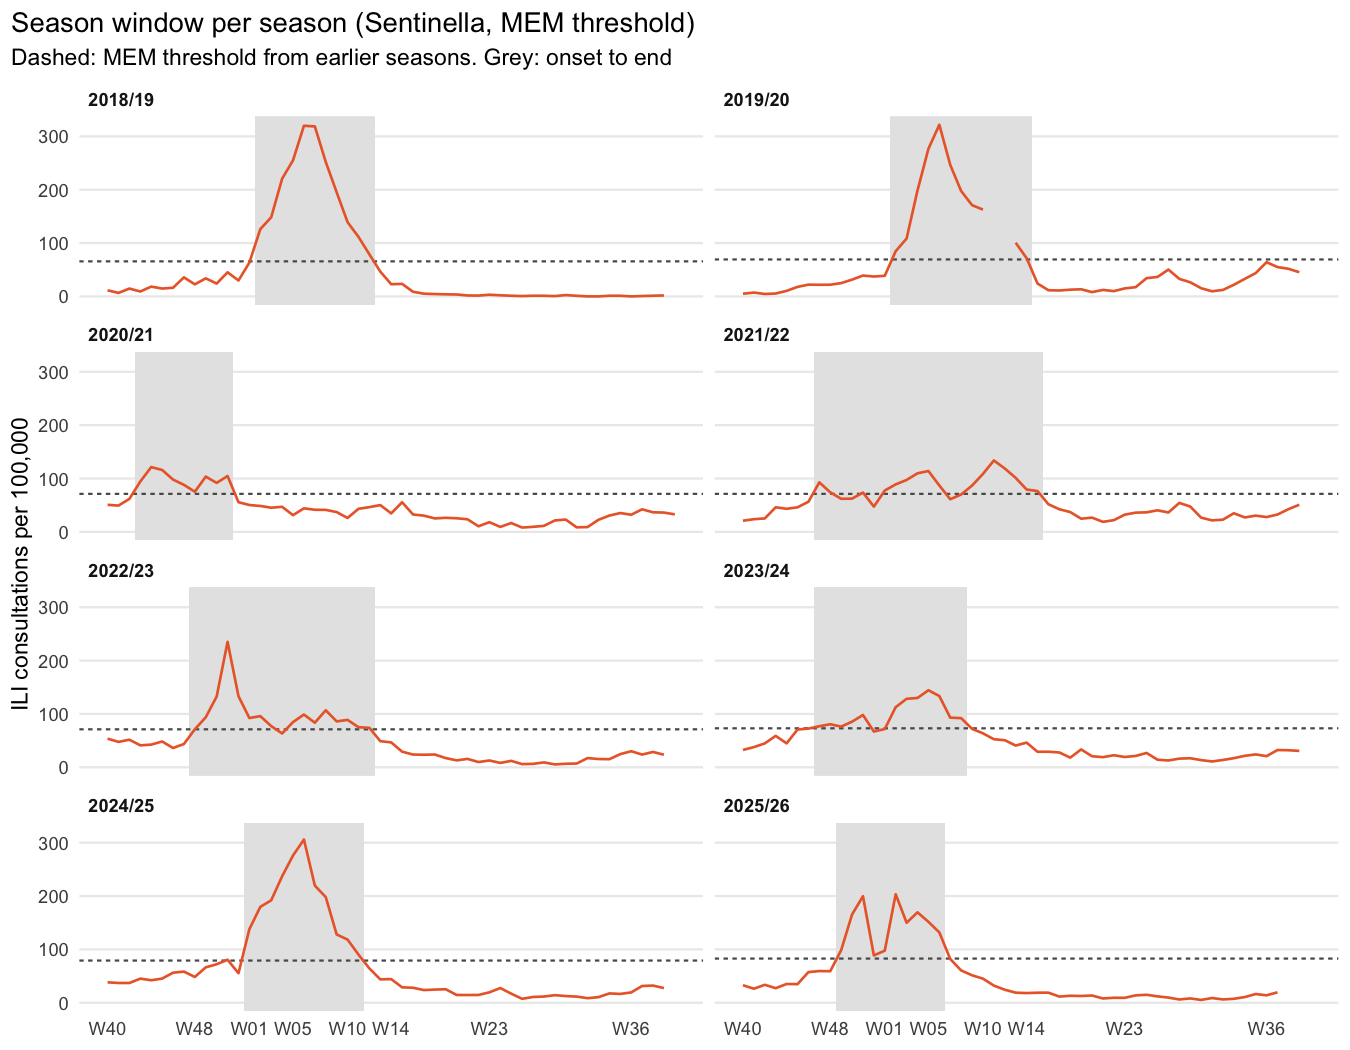
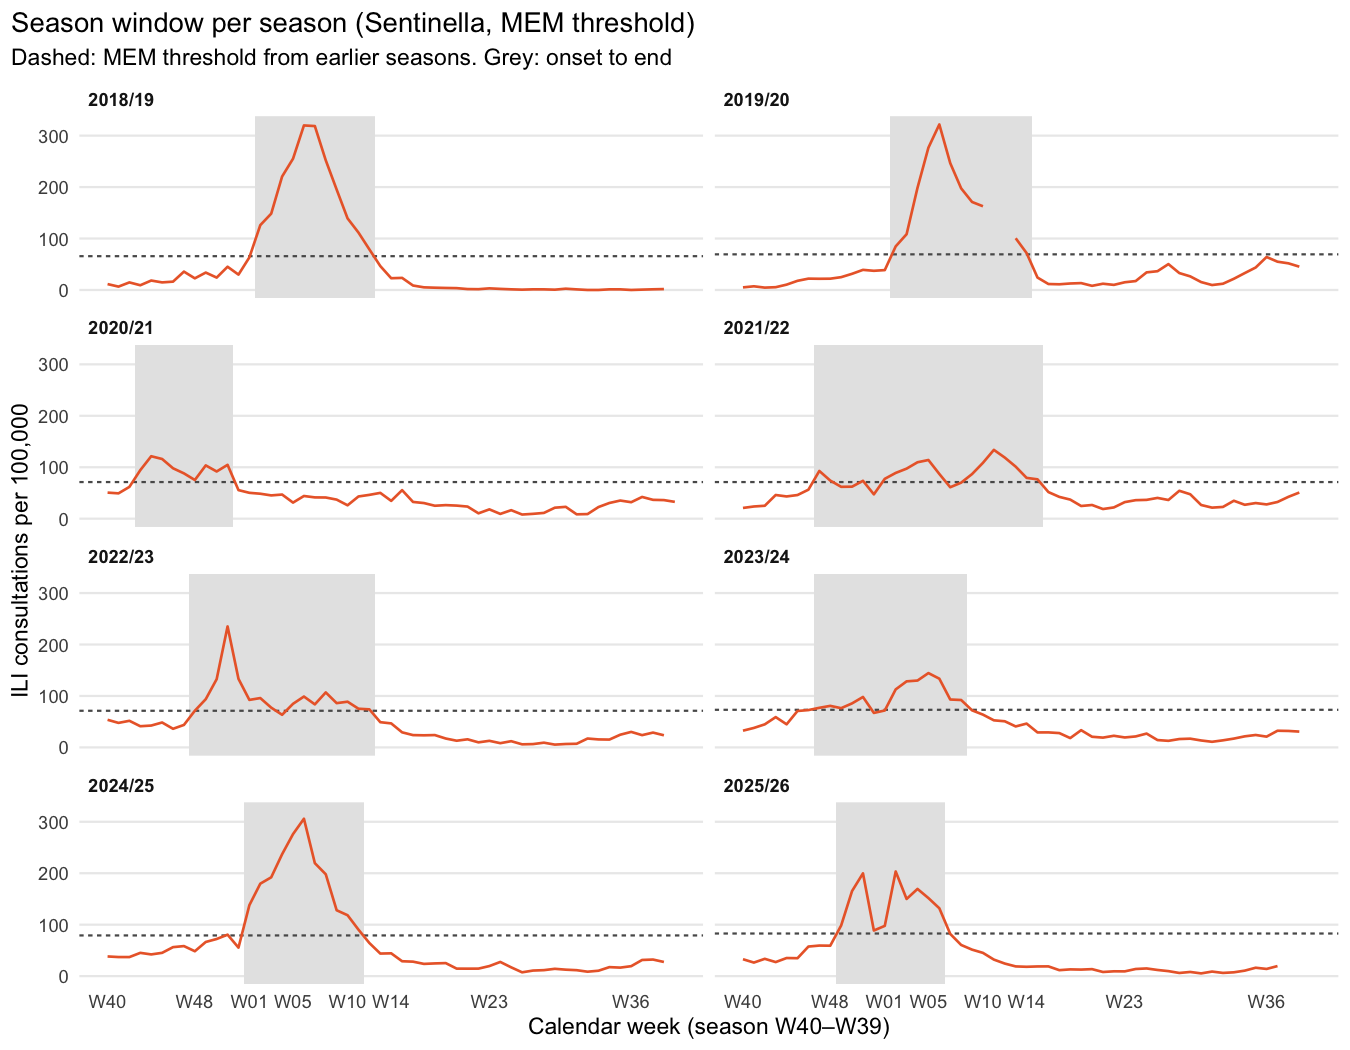
Add axis titles to EDA figures

diff --git a/reports/02_eda.md b/reports/02_eda.md
@@ -1,7 +1,7 @@
 WP 4.2 – Exploratory Analysis
 ================
 S. Ryf (responsible), L. Zovkic (feedback)
-15 October 2026
+27 October 2026
 
 - [1 Data](#1-data)
 - [2 Seasonal patterns](#2-seasonal-patterns)
@@ -56,16 +56,16 @@ extent.
 
 ![](figures/02_fig-typical-1.png)<!-- -->
 
-| System                                   | Period          | Seasons | Weeks | Mean | Median | 90th pct. |   Max | % weeks = 0 |
-|:-----------------------------------------|:----------------|--------:|------:|-----:|-------:|----------:|------:|------------:|
-| Mandatory reporting (cases per 100,000)  | pre2020_partial |       1 |    39 | 0.90 |   0.01 |      3.45 |  4.82 |        35.9 |
-| Mandatory reporting (cases per 100,000)  | pre2020         |       7 |   365 | 1.99 |   0.07 |      7.94 | 24.39 |        15.9 |
-| Mandatory reporting (cases per 100,000)  | covid           |       2 |   105 | 1.35 |   0.03 |      2.94 | 18.23 |        22.9 |
-| Mandatory reporting (cases per 100,000)  | post2020        |       4 |   206 | 5.23 |   0.48 |     19.10 | 42.81 |         0.0 |
-| Sentinella (ILI per 1,000 consultations) | pre2020_partial |       1 |    39 | 9.91 |   0.70 |     35.76 | 58.20 |         0.0 |
-| Sentinella (ILI per 1,000 consultations) | pre2020         |       7 |   363 | 7.48 |   2.00 |     27.16 | 59.10 |         3.0 |
-| Sentinella (ILI per 1,000 consultations) | covid           |       2 |   105 | 8.39 |   6.80 |     15.06 | 20.70 |         0.0 |
-| Sentinella (ILI per 1,000 consultations) | post2020        |       4 |   206 | 9.39 |   5.70 |     21.95 | 48.60 |         0.0 |
+| System | Period | Seasons | Weeks | Mean | Median | 90th pct. | Max | % weeks = 0 |
+|:---|:---|---:|---:|---:|---:|---:|---:|---:|
+| Mandatory reporting (cases per 100,000) | pre2020_partial | 1 | 39 | 0.90 | 0.01 | 3.45 | 4.82 | 35.9 |
+| Mandatory reporting (cases per 100,000) | pre2020 | 7 | 365 | 1.99 | 0.07 | 7.94 | 24.39 | 15.9 |
+| Mandatory reporting (cases per 100,000) | covid | 2 | 105 | 1.35 | 0.03 | 2.94 | 18.23 | 22.9 |
+| Mandatory reporting (cases per 100,000) | post2020 | 4 | 206 | 5.23 | 0.48 | 19.10 | 42.81 | 0.0 |
+| Sentinella (ILI per 1,000 consultations) | pre2020_partial | 1 | 39 | 9.91 | 0.70 | 35.76 | 58.20 | 0.0 |
+| Sentinella (ILI per 1,000 consultations) | pre2020 | 7 | 363 | 7.48 | 2.00 | 27.16 | 59.10 | 3.0 |
+| Sentinella (ILI per 1,000 consultations) | covid | 2 | 105 | 8.39 | 6.80 | 15.06 | 20.70 | 0.0 |
+| Sentinella (ILI per 1,000 consultations) | post2020 | 4 | 206 | 9.39 | 5.70 | 21.95 | 48.60 | 0.0 |
 
 Weekly values per period
 
@@ -97,32 +97,32 @@ check the peak week is therefore also determined on ILI consultations
 per 100,000 inhabitants, which is not affected by the drop in total
 consultations.
 
-| Season  | Period          | Peak week (oblig) | Peak (cases/100k) | Peak week (Sentinella, per 1,000 cons.) | Peak (ILI/1,000) | Lag (weeks) | Peak week (Sentinella, per 100,000) | Lag (weeks, per 100,000) | Note                |
-|:--------|:----------------|:------------------|------------------:|:----------------------------------------|-----------------:|------------:|:------------------------------------|-------------------------:|:--------------------|
-| 2012/13 | pre2020_partial | 2013-W06          |               4.8 | 2013-W06                                |             58.2 |           0 | 2013-W06                            |                        0 | incomplete season   |
-| 2013/14 | pre2020         | 2014-W08          |               2.0 | 2014-W07                                |             18.0 |           1 | 2014-W07                            |                        1 |                     |
-| 2014/15 | pre2020         | 2015-W07          |              10.6 | 2015-W06                                |             52.1 |           1 | 2015-W06                            |                        1 |                     |
-| 2015/16 | pre2020         | 2016-W11          |               4.4 | 2016-W06                                |             39.0 |           5 | 2016-W06                            |                        5 |                     |
-| 2016/17 | pre2020         | 2017-W01          |              17.1 | 2017-W01                                |             57.0 |           0 | 2017-W02                            |                       -1 |                     |
-| 2017/18 | pre2020         | 2018-W01          |              16.3 | 2018-W01                                |             59.1 |           0 | 2018-W02                            |                       -1 |                     |
-| 2018/19 | pre2020         | 2019-W07          |              24.4 | 2019-W07                                |             40.8 |           0 | 2019-W06                            |                        1 |                     |
-| 2019/20 | pre2020         | 2020-W05          |              20.4 | 2020-W06                                |             43.6 |          -1 | 2020-W06                            |                       -1 |                     |
-| 2020/21 | covid           | 2020-W51          |               0.6 | 2020-W44                                |             17.3 |           7 | 2020-W44                            |                        7 | no influenza season |
-| 2021/22 | covid           | 2022-W12          |              18.2 | 2022-W11                                |             20.7 |           1 | 2022-W11                            |                        1 |                     |
-| 2022/23 | post2020        | 2022-W51          |              42.8 | 2022-W52                                |             46.1 |          -1 | 2022-W51                            |                        0 |                     |
-| 2023/24 | post2020        | 2024-W04          |              26.4 | 2023-W52                                |             23.7 |           4 | 2024-W05                            |                       -1 | test season         |
-| 2024/25 | post2020        | 2025-W05          |              34.0 | 2025-W06                                |             48.6 |          -1 | 2025-W06                            |                       -1 | test season         |
-| 2025/26 | post2020        | 2026-W01          |              36.5 | 2026-W01                                |             35.7 |           0 | 2026-W02                            |                       -1 | incomplete season   |
+| Season | Period | Peak week (oblig) | Peak (cases/100k) | Peak week (Sentinella, per 1,000 cons.) | Peak (ILI/1,000) | Lag (weeks) | Peak week (Sentinella, per 100,000) | Lag (weeks, per 100,000) | Note |
+|:---|:---|:---|---:|:---|---:|---:|:---|---:|:---|
+| 2012/13 | pre2020_partial | 2013-W06 | 4.8 | 2013-W06 | 58.2 | 0 | 2013-W06 | 0 | incomplete season |
+| 2013/14 | pre2020 | 2014-W08 | 2.0 | 2014-W07 | 18.0 | 1 | 2014-W07 | 1 |  |
+| 2014/15 | pre2020 | 2015-W07 | 10.6 | 2015-W06 | 52.1 | 1 | 2015-W06 | 1 |  |
+| 2015/16 | pre2020 | 2016-W11 | 4.4 | 2016-W06 | 39.0 | 5 | 2016-W06 | 5 |  |
+| 2016/17 | pre2020 | 2017-W01 | 17.1 | 2017-W01 | 57.0 | 0 | 2017-W02 | -1 |  |
+| 2017/18 | pre2020 | 2018-W01 | 16.3 | 2018-W01 | 59.1 | 0 | 2018-W02 | -1 |  |
+| 2018/19 | pre2020 | 2019-W07 | 24.4 | 2019-W07 | 40.8 | 0 | 2019-W06 | 1 |  |
+| 2019/20 | pre2020 | 2020-W05 | 20.4 | 2020-W06 | 43.6 | -1 | 2020-W06 | -1 |  |
+| 2020/21 | covid | 2020-W51 | 0.6 | 2020-W44 | 17.3 | 7 | 2020-W44 | 7 | no influenza season |
+| 2021/22 | covid | 2022-W12 | 18.2 | 2022-W11 | 20.7 | 1 | 2022-W11 | 1 |  |
+| 2022/23 | post2020 | 2022-W51 | 42.8 | 2022-W52 | 46.1 | -1 | 2022-W51 | 0 |  |
+| 2023/24 | post2020 | 2024-W04 | 26.4 | 2023-W52 | 23.7 | 4 | 2024-W05 | -1 | test season |
+| 2024/25 | post2020 | 2025-W05 | 34.0 | 2025-W06 | 48.6 | -1 | 2025-W06 | -1 | test season |
+| 2025/26 | post2020 | 2026-W01 | 36.5 | 2026-W01 | 35.7 | 0 | 2026-W02 | -1 | incomplete season |
 
 ![](figures/02_fig-peak-week-1.png)<!-- -->
 
 ![](figures/02_fig-peak-intensity-1.png)<!-- -->
 
-| Period   | Seasons | Mean peak week oblig (SD in weeks, range) | Mean peak week Sentinella (SD) | Median peak oblig | Median peak Sentinella | Mean lag in weeks (range) | Mean lag per 100,000 (range) |
-|:---------|--------:|:------------------------------------------|:-------------------------------|------------------:|-----------------------:|:--------------------------|:-----------------------------|
-| pre2020  |       7 | W06 (SD 3.9, W01 to W12)                  | W05 (SD 2.8)                   |              16.3 |                   43.6 | 0.9 (-1 to 5)             | 0.7 (-1 to 5)                |
-| covid    |       1 | W12 (SD NA, W12 to W12)                   | W11 (SD NA)                    |              18.2 |                   20.7 | 1.0 (1 to 1)              | 1.0 (1 to 1)                 |
-| post2020 |       4 | W02 (SD 2.8, W51 to W05)                  | W02 (SD 2.9)                   |              35.2 |                   40.9 | 0.5 (-1 to 4)             | -0.8 (-1 to 0)               |
+| Period | Seasons | Mean peak week oblig (SD in weeks, range) | Mean peak week Sentinella (SD) | Median peak oblig | Median peak Sentinella | Mean lag in weeks (range) | Mean lag per 100,000 (range) |
+|:---|---:|:---|:---|---:|---:|:---|:---|
+| pre2020 | 7 | W06 (SD 3.9, W01 to W12) | W05 (SD 2.8) | 16.3 | 43.6 | 0.9 (-1 to 5) | 0.7 (-1 to 5) |
+| covid | 1 | W12 (SD NA, W12 to W12) | W11 (SD NA) | 18.2 | 20.7 | 1.0 (1 to 1) | 1.0 (1 to 1) |
+| post2020 | 4 | W02 (SD 2.8, W51 to W05) | W02 (SD 2.9) | 35.2 | 40.9 | 0.5 (-1 to 4) | -0.8 (-1 to 0) |
 
 Peak timing and intensity by period (seasons in summary statistics only)
 
@@ -173,29 +173,29 @@ onset rule reproduces the onset week reported by FOPH/BAG in 4 of 5
 seasons; the prospective MEM thresholds reproduce it in both seasons
 where they are available (2018/19, 2019/20).
 
-| Season  | FOPH/BAG threshold | MEM (prospective) | MEM (all pre-2020) | Onset reported by FOPH/BAG | Onset with FOPH/BAG threshold | Onset with MEM (prospective) | Onset with MEM (all pre-2020) |
-|:--------|-------------------:|------------------:|-------------------:|:---------------------------|:------------------------------|:-----------------------------|:------------------------------|
-| 2013/14 |                 74 |                NA |               71.2 | 2014-W04                   | 2014-W05                      | NA                           | 2014-W04                      |
-| 2014/15 |                 70 |                NA |               71.2 | NA                         | 2015-W02                      | NA                           | 2015-W02                      |
-| 2015/16 |                 NA |                NA |               71.2 | NA                         | NA                            | NA                           | 2016-W02                      |
-| 2016/17 |                 64 |                NA |               71.2 | 2016-W50                   | 2016-W50                      | NA                           | 2016-W51                      |
-| 2017/18 |                 68 |                NA |               71.2 | 2017-W51                   | 2017-W51                      | NA                           | 2017-W51                      |
-| 2018/19 |                 68 |              65.7 |               71.2 | 2019-W02                   | 2019-W02                      | 2019-W02                     | 2019-W02                      |
-| 2019/20 |                 69 |              69.2 |               71.2 | 2020-W02                   | 2020-W02                      | 2020-W02                     | 2020-W02                      |
+| Season | FOPH/BAG threshold | MEM (prospective) | MEM (all pre-2020) | Onset reported by FOPH/BAG | Onset with FOPH/BAG threshold | Onset with MEM (prospective) | Onset with MEM (all pre-2020) |
+|:---|---:|---:|---:|:---|:---|:---|:---|
+| 2013/14 | 74 | NA | 71.2 | 2014-W04 | 2014-W05 | NA | 2014-W04 |
+| 2014/15 | 70 | NA | 71.2 | NA | 2015-W02 | NA | 2015-W02 |
+| 2015/16 | NA | NA | 71.2 | NA | NA | NA | 2016-W02 |
+| 2016/17 | 64 | NA | 71.2 | 2016-W50 | 2016-W50 | NA | 2016-W51 |
+| 2017/18 | 68 | NA | 71.2 | 2017-W51 | 2017-W51 | NA | 2017-W51 |
+| 2018/19 | 68 | 65.7 | 71.2 | 2019-W02 | 2019-W02 | 2019-W02 | 2019-W02 |
+| 2019/20 | 69 | 69.2 | 71.2 | 2020-W02 | 2020-W02 | 2020-W02 | 2020-W02 |
 
 Thresholds per 100,000 inhabitants and resulting onset weeks, pre-2020
 seasons
 
-| Season  | MEM threshold | Onset    | End      | Duration (weeks) | Peak Sentinella | Peak oblig | Oblig cases in window |
-|:--------|--------------:|:---------|:---------|-----------------:|:----------------|:-----------|:----------------------|
-| 2018/19 |          65.7 | 2019-W02 | 2019-W12 |               11 | 2019-W07        | 2019-W07   | 89%                   |
-| 2019/20 |          69.2 | 2020-W02 | 2020-W14 |               13 | 2020-W06        | 2020-W05   | 93%                   |
-| 2020/21 |          71.2 | 2020-W43 | 2020-W51 |                9 | 2020-W44        | 2020-W51   | 58%                   |
-| 2021/22 |          71.2 | 2021-W47 | 2022-W15 |               21 | 2022-W11        | 2022-W12   | 89%                   |
-| 2022/23 |          71.2 | 2022-W48 | 2023-W12 |               17 | 2022-W52        | 2022-W51   | 92%                   |
-| 2023/24 |          73.1 | 2023-W47 | 2024-W08 |               14 | 2023-W52        | 2024-W04   | 86%                   |
-| 2024/25 |          79.1 | 2025-W01 | 2025-W11 |               11 | 2025-W06        | 2025-W05   | 80%                   |
-| 2025/26 |          82.8 | 2025-W49 | 2026-W06 |               10 | 2026-W01        | 2026-W01   | 86%                   |
+| Season | MEM threshold | Onset | End | Duration (weeks) | Peak Sentinella | Peak oblig | Oblig cases in window |
+|:---|---:|:---|:---|---:|:---|:---|:---|
+| 2018/19 | 65.7 | 2019-W02 | 2019-W12 | 11 | 2019-W07 | 2019-W07 | 89% |
+| 2019/20 | 69.2 | 2020-W02 | 2020-W14 | 13 | 2020-W06 | 2020-W05 | 93% |
+| 2020/21 | 71.2 | 2020-W43 | 2020-W51 | 9 | 2020-W44 | 2020-W51 | 58% |
+| 2021/22 | 71.2 | 2021-W47 | 2022-W15 | 21 | 2022-W11 | 2022-W12 | 89% |
+| 2022/23 | 71.2 | 2022-W48 | 2023-W12 | 17 | 2022-W52 | 2022-W51 | 92% |
+| 2023/24 | 73.1 | 2023-W47 | 2024-W08 | 14 | 2023-W52 | 2024-W04 | 86% |
+| 2024/25 | 79.1 | 2025-W01 | 2025-W11 | 11 | 2025-W06 | 2025-W05 | 80% |
+| 2025/26 | 82.8 | 2025-W49 | 2026-W06 | 10 | 2026-W01 | 2026-W01 | 86% |
 
 Season boundaries from Sentinella (MEM), applied to mandatory reporting
 
@@ -221,29 +221,29 @@ pre-2020 seasons (71.2 per 100,000). These descriptive boundaries are
 used only for RQ1; the in-season weeks for WP 4.5 remain the prospective
 ones above.
 
-| Season  | Threshold                                | Threshold (per 100,000) | Onset    | End      | Duration (weeks) |
-|:--------|:-----------------------------------------|------------------------:|:---------|:---------|-----------------:|
-| 2013/14 | MEM retrospective (all pre-2020 seasons) |                    71.2 | 2014-W04 | 2014-W10 |                7 |
-| 2014/15 | MEM retrospective (all pre-2020 seasons) |                    71.2 | 2015-W02 | 2015-W12 |               11 |
-| 2015/16 | MEM retrospective (all pre-2020 seasons) |                    71.2 | 2016-W02 | 2016-W13 |               12 |
-| 2016/17 | MEM retrospective (all pre-2020 seasons) |                    71.2 | 2016-W51 | 2017-W08 |               10 |
-| 2017/18 | MEM retrospective (all pre-2020 seasons) |                    71.2 | 2017-W51 | 2018-W13 |               15 |
-| 2018/19 | MEM prospective (earlier seasons only)   |                    65.7 | 2019-W02 | 2019-W12 |               11 |
-| 2019/20 | MEM prospective (earlier seasons only)   |                    69.2 | 2020-W02 | 2020-W14 |               13 |
-| 2020/21 | MEM prospective (earlier seasons only)   |                    71.2 | 2020-W43 | 2020-W51 |                9 |
-| 2021/22 | MEM prospective (earlier seasons only)   |                    71.2 | 2021-W47 | 2022-W15 |               21 |
-| 2022/23 | MEM prospective (earlier seasons only)   |                    71.2 | 2022-W48 | 2023-W12 |               17 |
-| 2023/24 | MEM prospective (earlier seasons only)   |                    73.1 | 2023-W47 | 2024-W08 |               14 |
-| 2024/25 | MEM prospective (earlier seasons only)   |                    79.1 | 2025-W01 | 2025-W11 |               11 |
-| 2025/26 | MEM prospective (earlier seasons only)   |                    82.8 | 2025-W49 | 2026-W06 |               10 |
+| Season | Threshold | Threshold (per 100,000) | Onset | End | Duration (weeks) |
+|:---|:---|---:|:---|:---|---:|
+| 2013/14 | MEM retrospective (all pre-2020 seasons) | 71.2 | 2014-W04 | 2014-W10 | 7 |
+| 2014/15 | MEM retrospective (all pre-2020 seasons) | 71.2 | 2015-W02 | 2015-W12 | 11 |
+| 2015/16 | MEM retrospective (all pre-2020 seasons) | 71.2 | 2016-W02 | 2016-W13 | 12 |
+| 2016/17 | MEM retrospective (all pre-2020 seasons) | 71.2 | 2016-W51 | 2017-W08 | 10 |
+| 2017/18 | MEM retrospective (all pre-2020 seasons) | 71.2 | 2017-W51 | 2018-W13 | 15 |
+| 2018/19 | MEM prospective (earlier seasons only) | 65.7 | 2019-W02 | 2019-W12 | 11 |
+| 2019/20 | MEM prospective (earlier seasons only) | 69.2 | 2020-W02 | 2020-W14 | 13 |
+| 2020/21 | MEM prospective (earlier seasons only) | 71.2 | 2020-W43 | 2020-W51 | 9 |
+| 2021/22 | MEM prospective (earlier seasons only) | 71.2 | 2021-W47 | 2022-W15 | 21 |
+| 2022/23 | MEM prospective (earlier seasons only) | 71.2 | 2022-W48 | 2023-W12 | 17 |
+| 2023/24 | MEM prospective (earlier seasons only) | 73.1 | 2023-W47 | 2024-W08 | 14 |
+| 2024/25 | MEM prospective (earlier seasons only) | 79.1 | 2025-W01 | 2025-W11 | 11 |
+| 2025/26 | MEM prospective (earlier seasons only) | 82.8 | 2025-W49 | 2026-W06 | 10 |
 
 Season boundaries for RQ1 (all seasons)
 
-| Period   | Seasons | Mean onset (SD, range)         | Mean end | Mean duration in weeks (range) |
-|:---------|--------:|:-------------------------------|:---------|:-------------------------------|
-| pre2020  |       7 | W02 (SD 1.9 weeks, W51 to W04) | W12      | 11.3 (7 to 15)                 |
-| covid    |       1 | W47                            | W15      | 21.0 (21 to 21)                |
-| post2020 |       4 | W49 (SD 2.6 weeks, W47 to W01) | W09      | 13.0 (10 to 17)                |
+| Period | Seasons | Mean onset (SD, range) | Mean end | Mean duration in weeks (range) |
+|:---|---:|:---|:---|:---|
+| pre2020 | 7 | W02 (SD 1.9 weeks, W51 to W04) | W12 | 11.3 (7 to 15) |
+| covid | 1 | W47 | W15 | 21.0 (21 to 21) |
+| post2020 | 4 | W49 (SD 2.6 weeks, W47 to W01) | W09 | 13.0 (10 to 17) |
 
 Season onset, end and duration by period (seasons in summary statistics)
 
@@ -322,14 +322,14 @@ peak (per 100’000 inhabitants) came before (negative) or after
 
 ![](figures/02_fig-regions-1.png)<!-- -->
 
-| Region                                | Seasons | Median difference (weeks) | Earlier | Same week | Later | Median peak (ILI per 100,000) |
-|:--------------------------------------|--------:|--------------------------:|--------:|----------:|------:|------------------------------:|
-| Region 1 (GE, NE, VD, VS)             |      12 |                         0 |       2 |         5 |     5 |                           290 |
-| Region 2 (BE, FR, JU)                 |      12 |                         0 |       3 |         6 |     3 |                           259 |
-| Region 3 (AG, BL, BS, SO)             |      12 |                         1 |       0 |         5 |     7 |                           314 |
-| Region 4 (LU, NW, OW, SZ, UR, ZG)     |      12 |                         0 |       4 |         3 |     5 |                           202 |
-| Region 5 (AI, AR, GL, SG, SH, TG, ZH) |      12 |                         0 |       2 |         6 |     4 |                           281 |
-| Region 6 (GR, TI)                     |      12 |                         0 |       5 |         6 |     1 |                           664 |
+| Region | Seasons | Median difference (weeks) | Earlier | Same week | Later | Median peak (ILI per 100,000) |
+|:---|---:|---:|---:|---:|---:|---:|
+| Region 1 (GE, NE, VD, VS) | 12 | 0 | 2 | 5 | 5 | 290 |
+| Region 2 (BE, FR, JU) | 12 | 0 | 3 | 6 | 3 | 259 |
+| Region 3 (AG, BL, BS, SO) | 12 | 1 | 0 | 5 | 7 | 314 |
+| Region 4 (LU, NW, OW, SZ, UR, ZG) | 12 | 0 | 4 | 3 | 5 | 202 |
+| Region 5 (AI, AR, GL, SG, SH, TG, ZH) | 12 | 0 | 2 | 6 | 4 | 281 |
+| Region 6 (GR, TI) | 12 | 0 | 5 | 6 | 1 | 664 |
 
 Regional peaks relative to the national peak (seasons in summary
 statistics)
